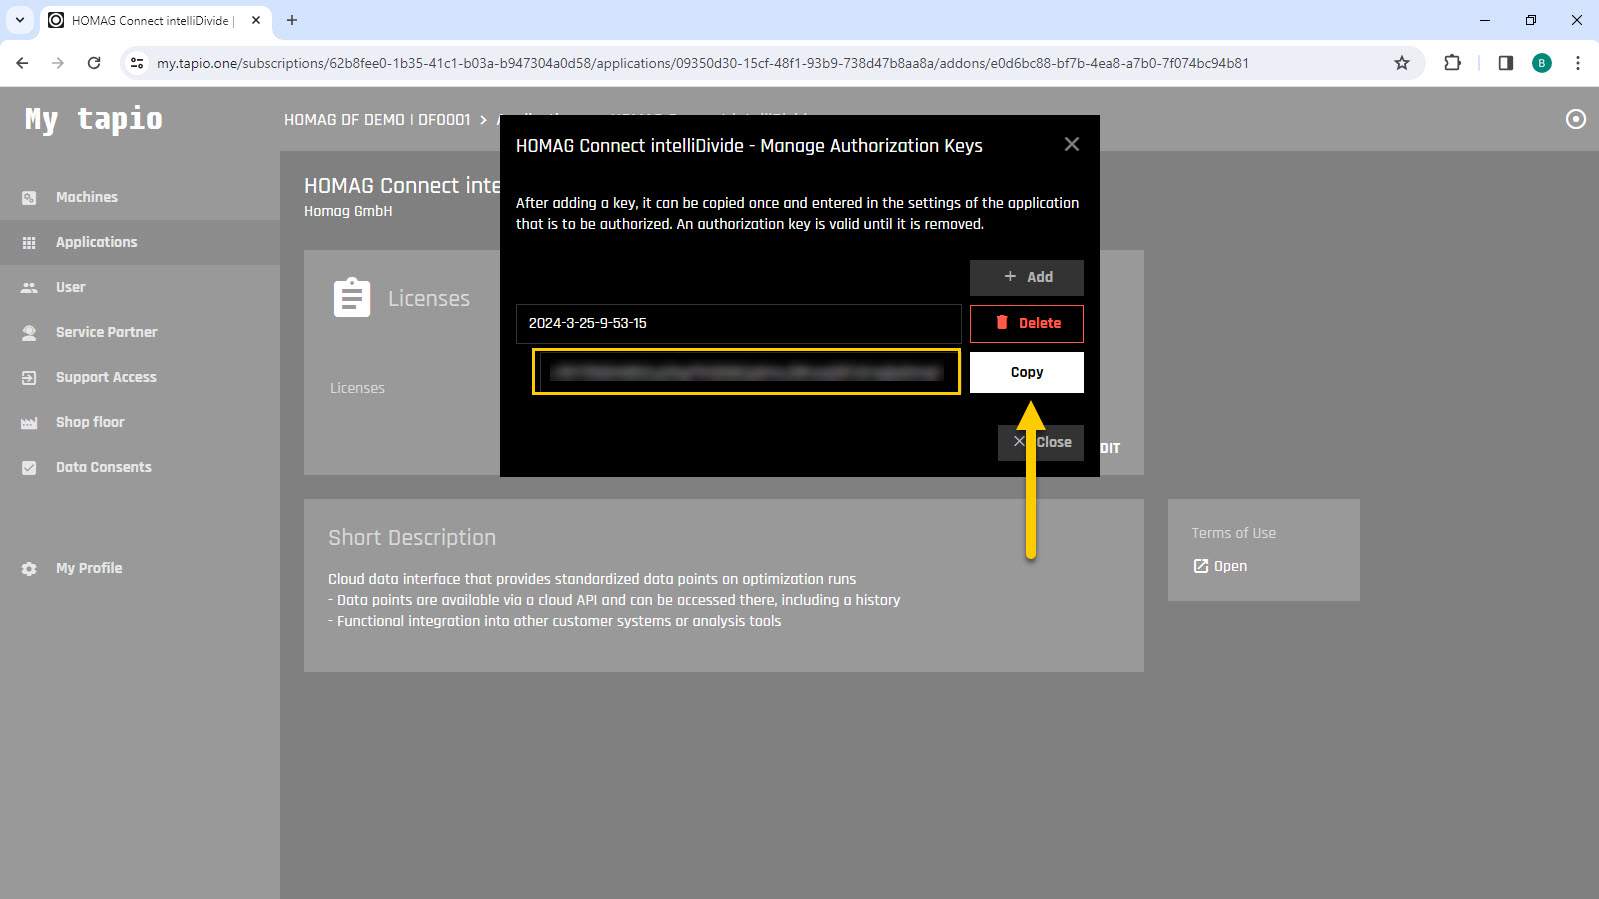
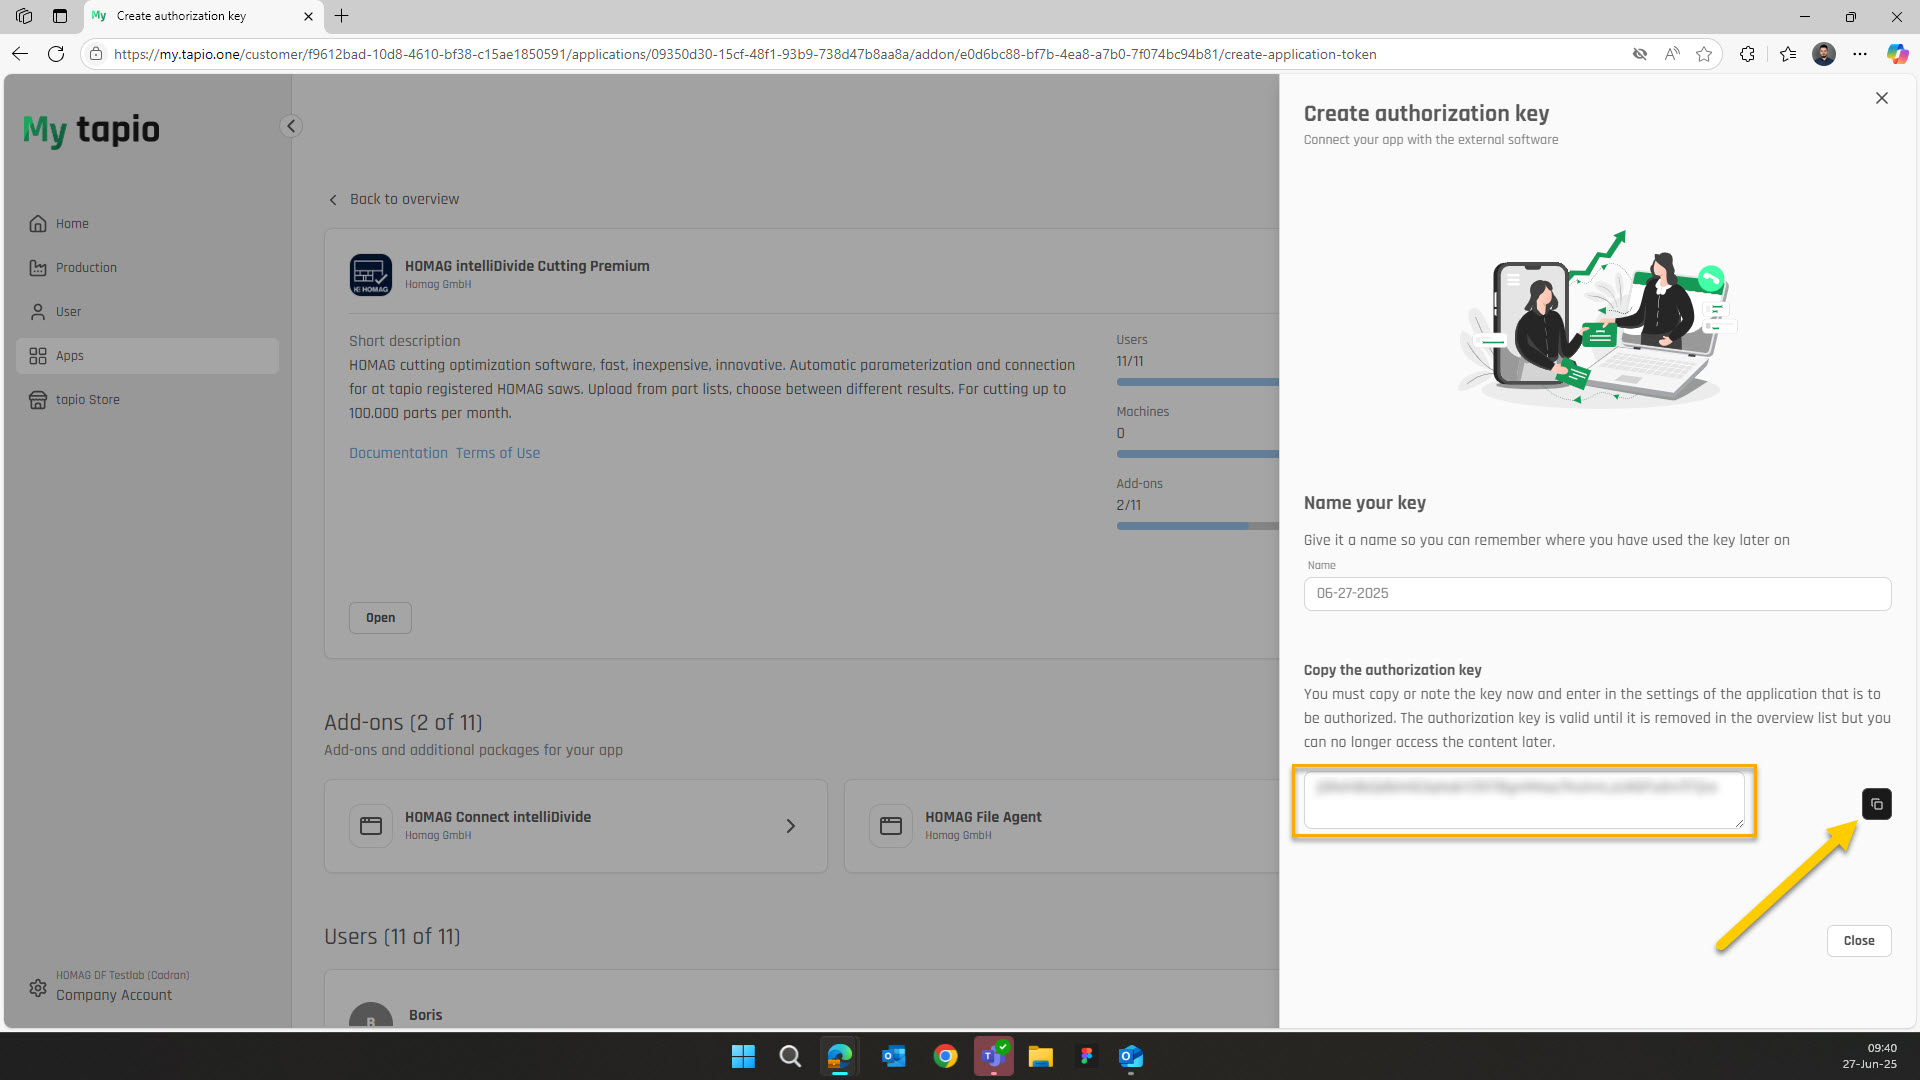
Update auth documentation (#356)
* Add files via upload

* Update Readme.md

---------

diff --git a/Documentation/Authentication/Readme.md b/Documentation/Authentication/Readme.md
@@ -18,12 +18,12 @@ The Subscription Id and Authorization Key can be obtained by subscription admini
 
 ![alt text](AuthorizationKey01.jpg)
 
-- Open the Authorization Keys dialog.
+- Click on "Create authorization key" 
 
 ![alt text](AuthorizationKey02.jpg)
 
-- Click on Add and Confirm to create a new key. 
-Enter a meaningful description for your authorization key so that you can easily identify the correct key later if you wish to revoke it.
+- Name your key(1). Enter a meaningful description for your authorization key so that you can easily identify the correct key later if you wish to revoke it.
+- And then create the key(2) . 
 
 ![alt text](AuthorizationKey03.jpg)
 
